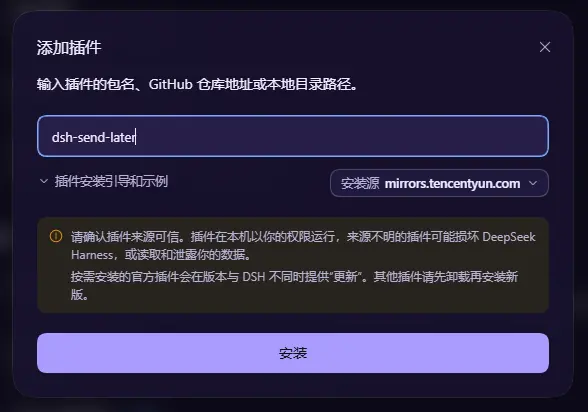
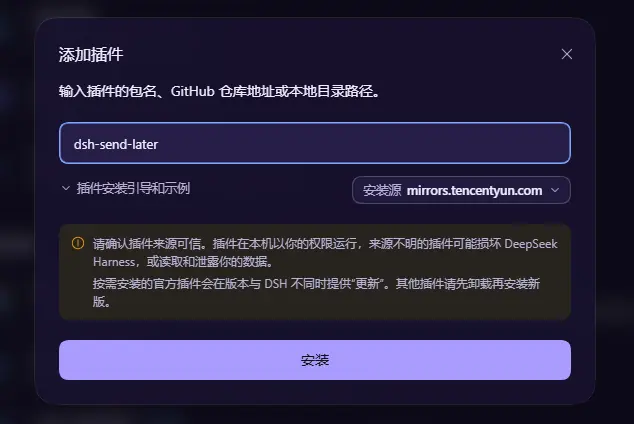
docs: swap install dialog screenshot for the cleaner take (package name fully typed)

diff --git a/README.md b/README.md
@@ -32,7 +32,7 @@
 2. 输入包名 `dsh-send-later`（或 GitHub 仓库地址 `iasiv5/dsh-send-later`）；
 3. 选择安装源，点击「安装」，完成后刷新页面即可生效。
 
-<p align="center"><img src="https://raw.githubusercontent.com/iasiv5/dsh-send-later/main/docs/images/install-dialog.webp" alt="在 dsh-m「添加插件」对话框中输入包名安装" width="588"></p>
+<p align="center"><img src="https://raw.githubusercontent.com/iasiv5/dsh-send-later/main/docs/images/install-dialog.webp" alt="在 dsh-m「添加插件」对话框中输入包名安装" width="634"></p>
 
 也可以在 dsh-m 插件市场中搜索关键词「延时发送」或 `send-later` 直接安装。
 
